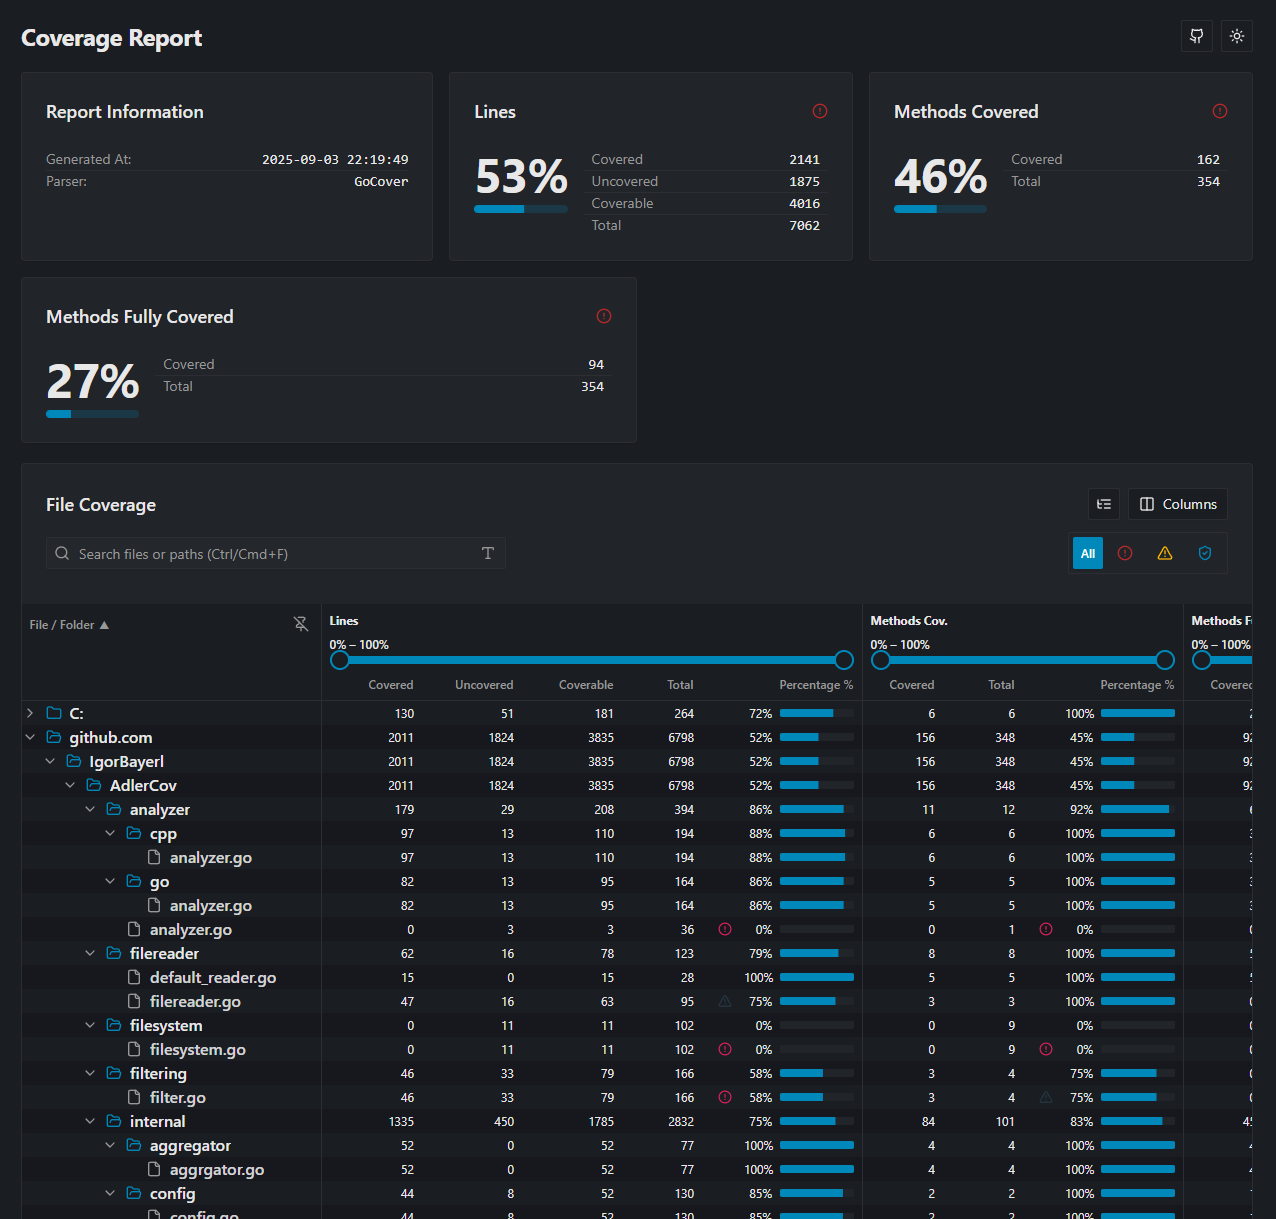
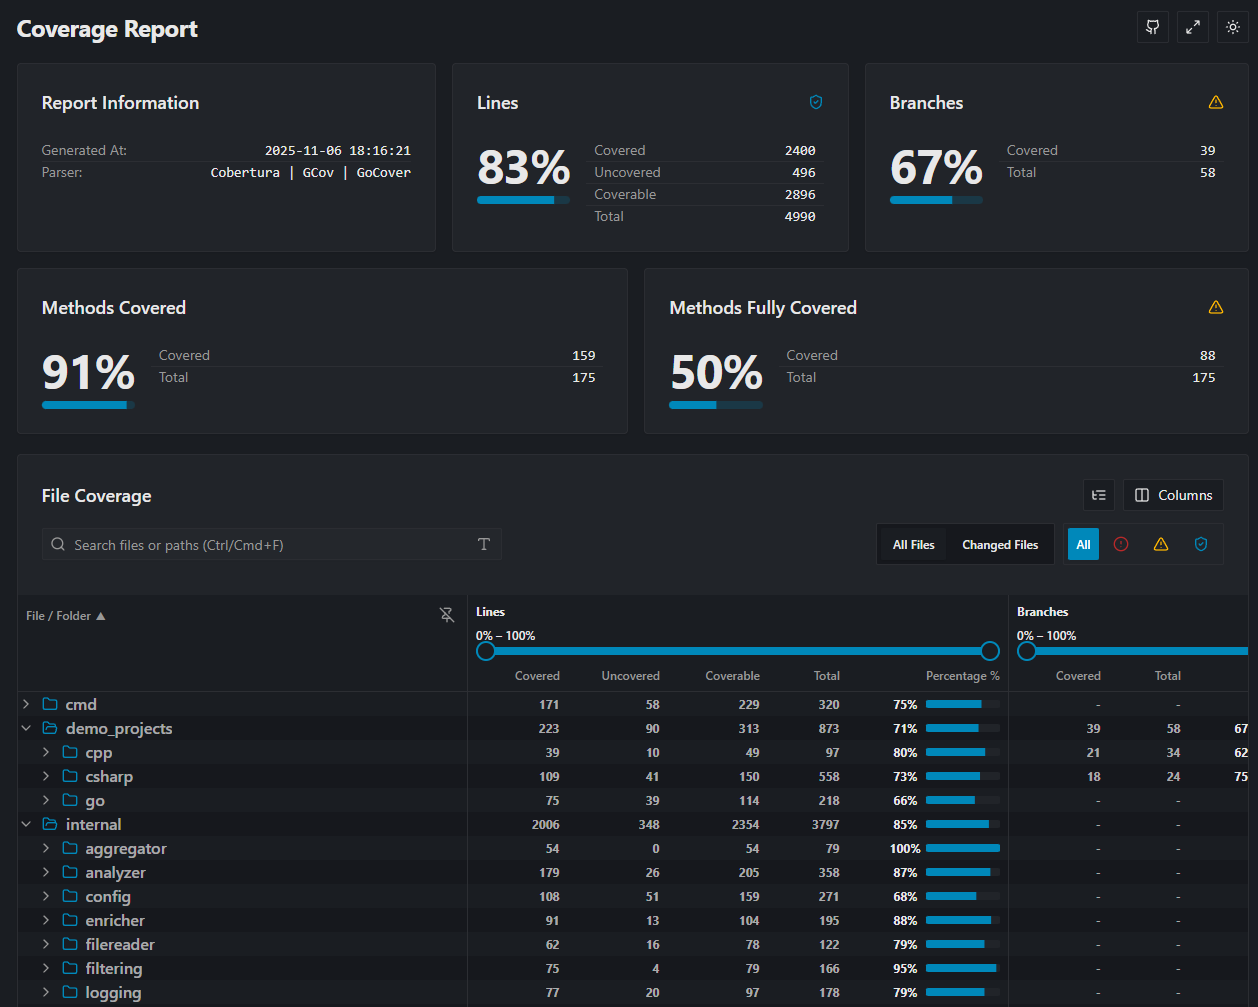
Update docs and self example generator workflow

diff --git a/scripts/e2e_test.py b/scripts/e2e_test.py
@@ -217,16 +217,20 @@ def print_summary_report(results):
     print("="*80)
 
 
-def generate_diff_file():
+def generate_diff_file(explicit_target=None):
     """
     Generates a diff file and returns its path.
     Adapts the 'git diff' command for local vs. GitHub Actions environments.
+    Allows an explicit target (e.g. 'HEAD~3') to override auto-detection.
     """
     diff_file_path = os.path.join(tempfile.gettempdir(), "nanovision_e2e.diff")
     diff_target = "main"
     git_command = []
 
-    if os.environ.get("GITHUB_ACTIONS") == "true":
+    if explicit_target:
+        print(f"--- Diffing against explicit target: '{explicit_target}' ---")
+        git_command = ["git", "diff", explicit_target]
+    elif os.environ.get("GITHUB_ACTIONS") == "true":
         print("--- Detected GitHub Actions environment for diff generation ---")
         base_ref = os.environ.get("GITHUB_BASE_REF")
         if base_ref:
@@ -340,6 +344,7 @@ def main():
     parser.add_argument("-v", "--verbose", action="store_true", help="Stream the live output from the nanovision tool during tests.")
     parser.add_argument("-sc", "--self-cover", action="store_true", help="Build with coverage and generate a coverage report for the tool itself.")
     parser.add_argument("--report-types", default="Html,TextSummary,Lcov,RawJson", help="Comma-separated list of report types to generate.")
+    parser.add_argument("--diff-target", help="Explicit git reference to diff against (e.g. HEAD~3, origin/main). Overrides auto-detection.")
     args = parser.parse_args()
 
     platform, binary_name = get_platform_and_binary_name()
@@ -373,7 +378,7 @@ def main():
                 all_results.append({"name": "Self-Coverage Workflow", "status": "⚪ SKIPPED", "details": "Skipped due to failures in primary E2E tests."})
             else:
                 self_cover_cli_args = global_cli_args.copy()
-                diff_file_path = generate_diff_file()
+                diff_file_path = generate_diff_file(args.diff_target)
                 if diff_file_path:
                     self_cover_cli_args.append(f"-diff={diff_file_path}")
 

diff --git a/README.md b/README.md
@@ -1,6 +1,6 @@
 <h1 align="center">
 
-<img src="docs/docs/imgs/nanovision.png" alt="nanovision" width="200"/>
+![alt text](docs/docs/imgs/nanovision_input_output.png)
 <br/>
 nanovision
 </h1>
@@ -10,134 +10,107 @@ nanovision
     
 <b>The code coverage visualization tool that understands your code</b>
   
-</div>
-
-[![Go Report Card](https://goreportcard.com/badge/github.com/IgorBayerl/nanovision)](https://goreportcard.com/report/github.com/IgorBayerl/nanovision)
-
-**nanovision** converts coverage reports generated by Cobertura, GoCover or GCov into human-readable reports in various formats.
-
-The reports show the coverage quotas and also visualize which lines of your source code have been covered.
-
-**nanovision** supports merging several coverage files into a single report, giving you a unified view of your project's test coverage across different test suites (e.g., unit and integration tests).
-
-Originally a Go rewrite of the excellent [ReportGenerator](https://github.com/danielpalme/ReportGenerator) by Daniel Palme, **nanovision** has evolved into something different. Built in Go, it focuses on performance, simplicity, and a fresh clean architecture focused on today's workflow.
-
-![alt text](docs/docs/imgs/nanovision_input_output.png)
-
----
-
 Here is an [example report](https://igorbayerl.github.io/nanovision/reports/), its a self coverage report of the **nanovision** project.
 
 For more details check the [docs](https://igorbayerl.github.io/nanovision/docs/)
 
+[![Build Status](https://github.com/IgorBayerl/nanovision/actions/workflows/pages.yml/badge.svg)](https://github.com/IgorBayerl/nanovision/actions/workflows/pages.yml)
+[![Go Report Card](https://goreportcard.com/badge/github.com/IgorBayerl/nanovision)](https://goreportcard.com/report/github.com/IgorBayerl/nanovision)
+[![License](https://img.shields.io/badge/License-Apache%202.0-blue.svg)](https://opensource.org/licenses/Apache-2.0)
+
+</div>
 
 ---
 
+nanovision converts coverage reports (Cobertura, GoCover, GCov) into human-readable visualizations.
 
 
-## Screenshots 
+### [View Example Report](https://igorbayerl.github.io/nanovision/reports/) &nbsp;&nbsp;|&nbsp;&nbsp; [Read the Docs](https://igorbayerl.github.io/nanovision/docs/)
 
 
-### HTML Report
+---
 
-Summary
-![coverage report summary page example](docs/docs/imgs/nanovision_summary_screen.png)
+![nanovision screenshot](docs/docs/imgs/nanovision_summary_screen.png)
 
-Details
-![coverage report details page example C++](docs/docs/imgs/nanovision_details.png)
-## Feature Status
+## Why nanovision?
 
+While many CI tools give you a simple percentage, **nanovision** helps you understand *what* is covered and *why* it matters.
 
-While nanovision began by mirroring ReportGenerator’s capabilities, it is now diverging with Go-native enhancements and a growing list of planned features.
+*   **High Performance:** Written in Go. Fast parsing, low memory footprint.
+*   **Report Merging:** Combine Unit, Integration reports into a single unified view.
+*   **Patch Coverage:** Analyze coverage specifically on **new code** (using diffs) to stop technical debt before it merges.
+*   **Deep Analysis:** Calculates cyclomatic complexity and method/functions level metrics.
+*   **Modern UI:** Generates a static, html pages that are easy to host anywhere.
 
-| Feature Category   | Feature               | nanovision | Notes          |
-|:-------------------|:----------------------|:----------:|:---------------|
-| **Input Formats**  | Cobertura             |     ✅      |                |
-|                    | Go Cover              |     ✅      |                |
-|                    | OpenCover             |     ❌      | Planned.       |
-|                    | JaCoCo                |     ❌      | Planned.       |
-|                    | Merge Reports         |     ✅      |                |
-| **Output Formats** | HTML (SPA)            |     ✅      |                |
-|                    | TextSummary           |     ✅      |                |
-|                    | lcov                  |     ✅      |                |
-|                    | RawJSON               |     ✅      |                |
-|                    | Badge                 |     ❌      | Coming soon.   |
-|                    | XML                   |     ❌      | Coming soon.   |
-| **Core Features**  | File Filtering        |     ✅      |                |
-|                    | Report Selection      |     ✅      |                |
-|                    | Branch Coverage       |     ✅      |                |
-|                    | Method Coverage       |     ✅      |                |
-|                    | Cyclomatic Complexity |     ✅      | Go-native; C++ |
-|                    | Patch Coverage        |     ❌      | Coming soon.   |
-|                    | Risk Hotspots         |     ❌      | Coming soon.   |
+## Supported Formats
 
-## Command Line Interface
+| Input Formats     | Output Formats              |
+|:------------------|:----------------------------|
+| Cobertura (XML)   | HTML (React SPA)            |
+| Go Cover (`.out`) | Text Summary (Console/File) |
+| GCov (`.gcov`)    | LCOV                        |
+|                   | Raw JSON                    |
 
-nanovision mirrors the familiar command-line interface of ReportGenerator while adding a config file as well `nanovision.yaml`.
+## Installation
+### From Releases
+Download the pre-compiled binary for Windows or Linux from the **[Releases Page](https://github.com/IgorBayerl/nanovision/releases)**.
 
-| Argument      | nanovision | Description                                   |
-|:--------------|:----------:|:----------------------------------------------|
-| `report`      |     ✅      | Input coverage reports (semicolon-separated). |
-| `output`      |     ✅      | Output directory.                             |
-| `sourcedirs`  |     ✅      | Source directories (semicolon-separated).     |
-| `reporttypes` |     ✅      | Output formats (comma-separated).             |
-| `filefilters` |     ✅      | Include/exclude file filters.                 |
-| `verbosity`   |     ✅      | Log level (e.g., Verbose, Info, Error).       |
-| `tag`         |     ✅      | Optional label for the report.                |
-| `title`       |     ✅      | Custom report title.                          |
+<!-- ### Install Scripts
 
-### Config file example
-```yaml
-# A list of coverage report files to parse for the merged report.
-reports:
-  - "reports/nanovision_self_coverage/coverage-unit.out"
-  - "reports/nanovision_self_coverage/coverage-integration.out"
-  - "demo_projects/cpp/report/gcov/branch-probabilities/*.gcov"
-  - "demo_projects/csharp/report/cobertura/cobertura.xml"
-  - "demo_projects/go/report/gocover/coverage.out"
+**Windows**
+> TODO.
 
-# A list of source code directories. The order must match the `reports` list.
-source_dirs:
-  - "."
-  - "."
-  - "demo_projects/cpp/project"
-  - "demo_projects/csharp/project"
-  - "demo_projects/go/project"
+**Linux**
+> TODO. -->
 
-# The directory where the final self-coverage report will be saved.
-output_dir: "reports/nanovision_self_coverage_full"
+## Quick Start
 
-# The types of reports to generate.
-report_types:
-  - "Html"
-  - "TextSummary"
-  - "Lcov"
-  - "RawJson"
-
-# The title for the generated HTML report.
-title: "nanovision Self-Coverage (Full Merged)"
-
-# Logging verbosity for the self-coverage run.
-verbosity: "Verbose"
-
-# A list of glob patterns for files and directories to exclude from the report.
-ignore_files:
-  - "tree-sitter/**"       # Exclude all downloaded tree-sitter grammars
-  - "**/*_test.go"         # Exclude test files themselves from coverage metrics
-  - "tools/**"             # Exclude helper tools
-  - "vendor/**"            # Exclude vendored dependencies
+### 1. Generate a basic HTML report
+```bash
+nanovision \
+  -report="coverage.out" \
+  -sourcedirs="."
 ```
 
-## Why "nanovision"?
+### 2. Merge multiple reports
+Combine coverage from different languages or test suites:
 
-Reference to Crysis thermal vision capability, used in game to spot threats.
+```bash
+nanovision \
+  -report="cobertura.xml;gocover.out" \
+  -sourcedirs="src/csharp;src/go"
+```
 
-## How to Contribute
+### 3. Patch Coverage (Diff Analysis)
+Focus only on the lines changed in your branch (great for PR checks):
 
-Check the [CONTRIBUTING.md](CONTRIBUTING.md)
+```bash
+# 1. Generate a diff file
+git diff main > changes.diff
+
+# 2. Run nanovision with the diff flag
+nanovision -report="coverage.out" -sourcedirs="." -diff="changes.diff"
+```
+
+## Configuration
+
+You can run nanovision entirely via CLI flags, or use a `nanovision.yaml` file for complex setups (like file filtering, risk thresholds, and excluded paths).
+
+See the **[Configuration Documentation](https://igorbayerl.github.io/nanovision/docs/configs/)** for details.
+
+## Contributing
+
+Contributions are welcome! 
+Please see [CONTRIBUTING.md](CONTRIBUTING.md) for details on setting up the dev environment (Devcontainer included).
 
 ## License
-**nanovision** is licensed under the [Apache License, Version 2.0](https://opensource.org/licenses/Apache-2.0)
+
+Licensed under the [Apache 2.0 License](LICENSE).
+
+## Credits
+
+*   Inspired by the excellent [ReportGenerator](https://github.com/danielpalme/ReportGenerator) by Daniel Palme.
+
 
 ## Star History
 
